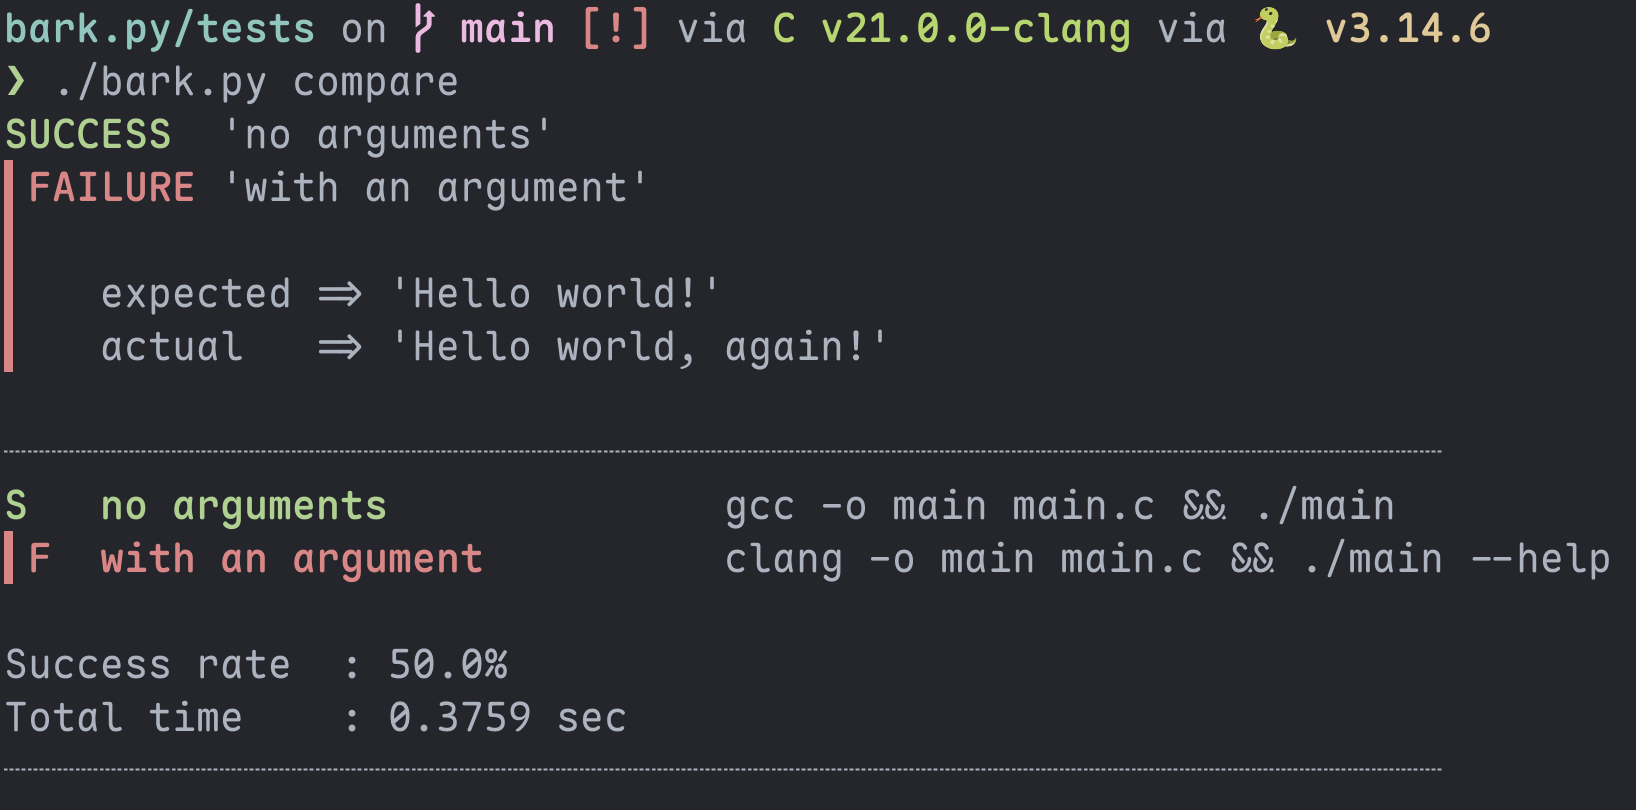
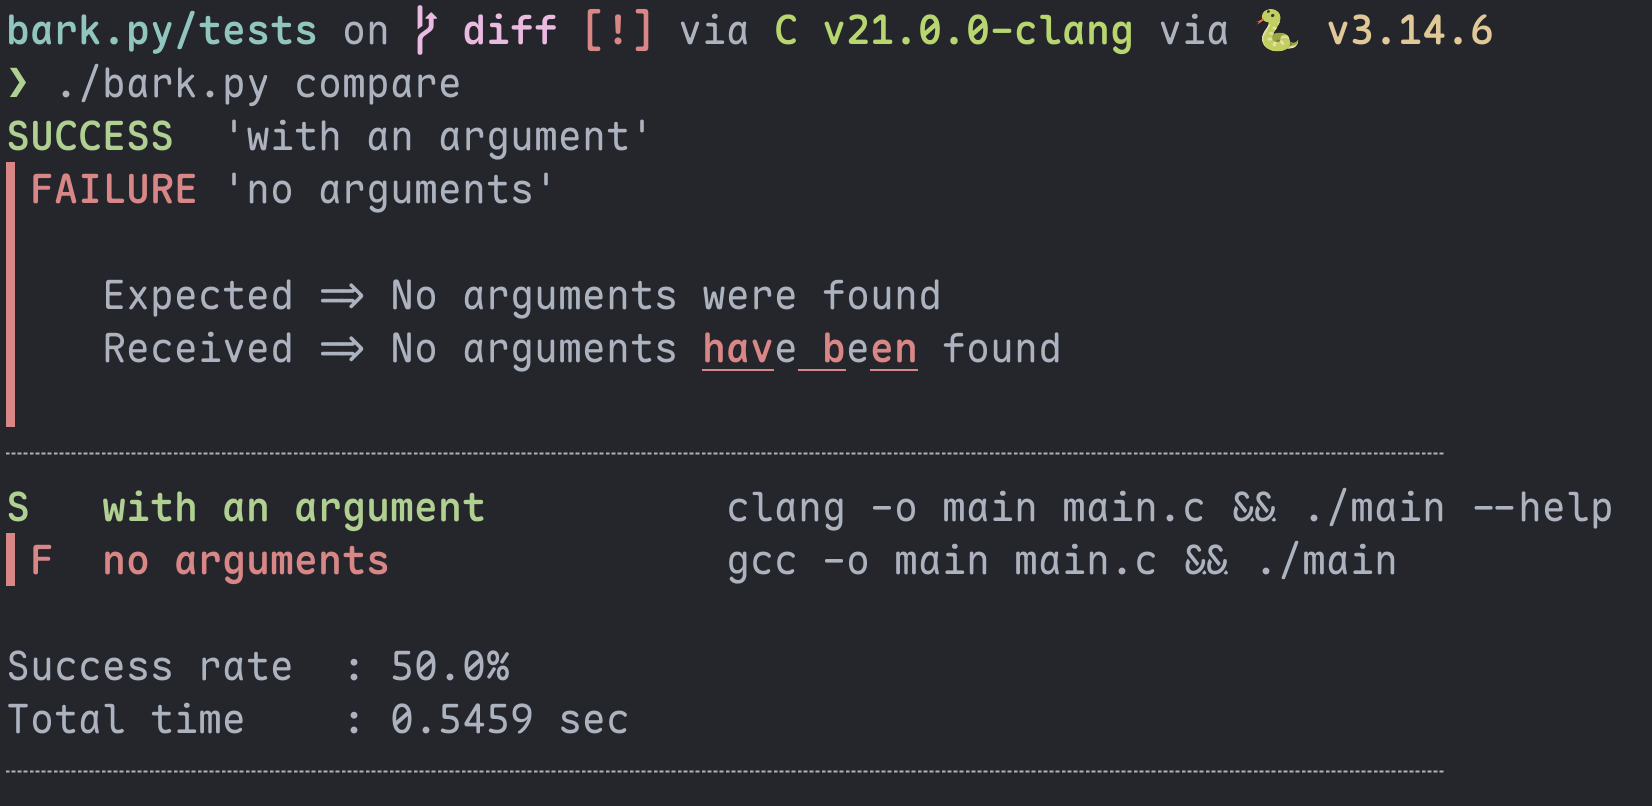
feat(bark.py): diff in failure print

diff --git a/bark.py b/bark.py
@@ -35,7 +35,7 @@ Requirements: Python 3.10+
 
 """
 
-import sys, subprocess, os, shutil, hashlib
+import sys, subprocess, os, shutil, hashlib, difflib
 from datetime import datetime as dt
 from dataclasses import dataclass
 from pathlib import Path
@@ -50,6 +50,7 @@ HASH = f"{BARK_DIR}/hash"
 FIELD = "▍"
 DIV = "┈" * 60
 COL_RED = "\033[1;31m"
+COL_DIFF = "\033[1;4;31m"
 COL_GREEN = "\033[1;32m"
 COL_BLUE = "\033[1;34m"
 COL_RESET = "\033[0m"
@@ -187,15 +188,28 @@ def cmd_record() -> None:
 def cmd_help() -> None:
     print(_HELP_STR[1:])
 
+def diff_(old: str, new: str) -> tuple[str, str]:
+    """helper - comparison_failure_print()"""
+    matcher = difflib.SequenceMatcher(lambda x: x in " ", old, new)
+    buf = []
+    for tag, _, _, j1, j2 in matcher.get_opcodes():
+        text = new[j1:j2]
+        if tag == "equal":
+            buf.append(text)
+        else:
+            buf.append(COL_DIFF + text + COL_RESET)
+    return f"Expected => {old}", f"Received => {"".join(buf)}"
+
 def comparison_failure_print(name: str, old_line: str, new_line: str) -> None:
     """helper - cmd_compare()"""
     l = f"{COL_RED}{FIELD}{COL_RESET}"
     ol = old_line[:-1] if old_line[-1] == "\n" else old_line
     nl = new_line[:-1] if new_line[-1] == "\n" else new_line
+    expected, actual = diff_(ol, nl)
     print(f"{COL_RED}{FIELD}FAILURE {COL_RESET}'{name}'")
     print(f"{l}")
-    print(f"{l:<15}expected => '{ol}'")
-    print(f"{l:<15}actual   => '{nl}'")
+    print(f"{l:<15}{expected}")
+    print(f"{l:<15}{actual}")
     print(f"{l}")
 
 def time_total() -> float:

diff --git a/tests/main.c b/tests/main.c
@@ -2,7 +2,7 @@
 
 int main(int argc, char **argv) {
     if (argc < 2) {
-        printf("No arguments were found");
+        printf("No arguments have been found");
         return 1;
     }
     printf("Hello world!\n");
